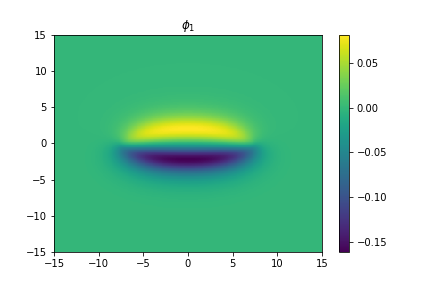
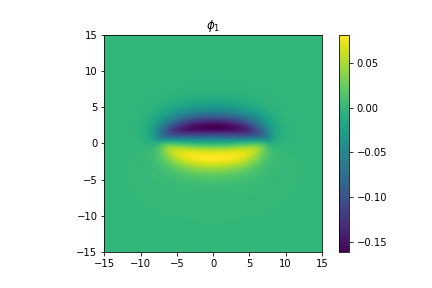
fixed and tested the bug with negative kinetic energy for epsilon, arisin from forgetting to use conjugate of field when taking dot product

diff --git a/confinepy package/confinepy/source.py b/confinepy package/confinepy/source.py
@@ -2081,12 +2081,12 @@ class Solution_Viewer():
             K = Kahler(self.N,self.epsilon)
             K_inv = LA.inv(K.matrix)
             Dx = np.array([dxdz,dxdy])
+            Dx_conj = np.conj(Dx)
             #contract using einstein summation. The repeated index 'r'
             #correspond to the 2 spatial component z and y. The repeated
             #indices 'a' and 'b' are Cartan algebra vector. The ellipses 
             #represent the field.
-            ged = np.einsum("ra...,ab...,rb...",Dx,K_inv,Dx,optimize=True)
-            print(np.max(np.imag(ged)))
+            ged = np.einsum("ra...,ab...,rb...",Dx,K_inv,Dx_conj,optimize=True)
         ged = np.real(ged)
         return ged
 
@@ -2720,5 +2720,4 @@ def compute_string_separation(N,p,epsilon=0,no_translation=True):
         return None
 
 if __name__ == "__main__":
-    tension_list, separation_param_list = plot_all_tensions_and_separation()
-    print(separation_param_list)
+    pass
